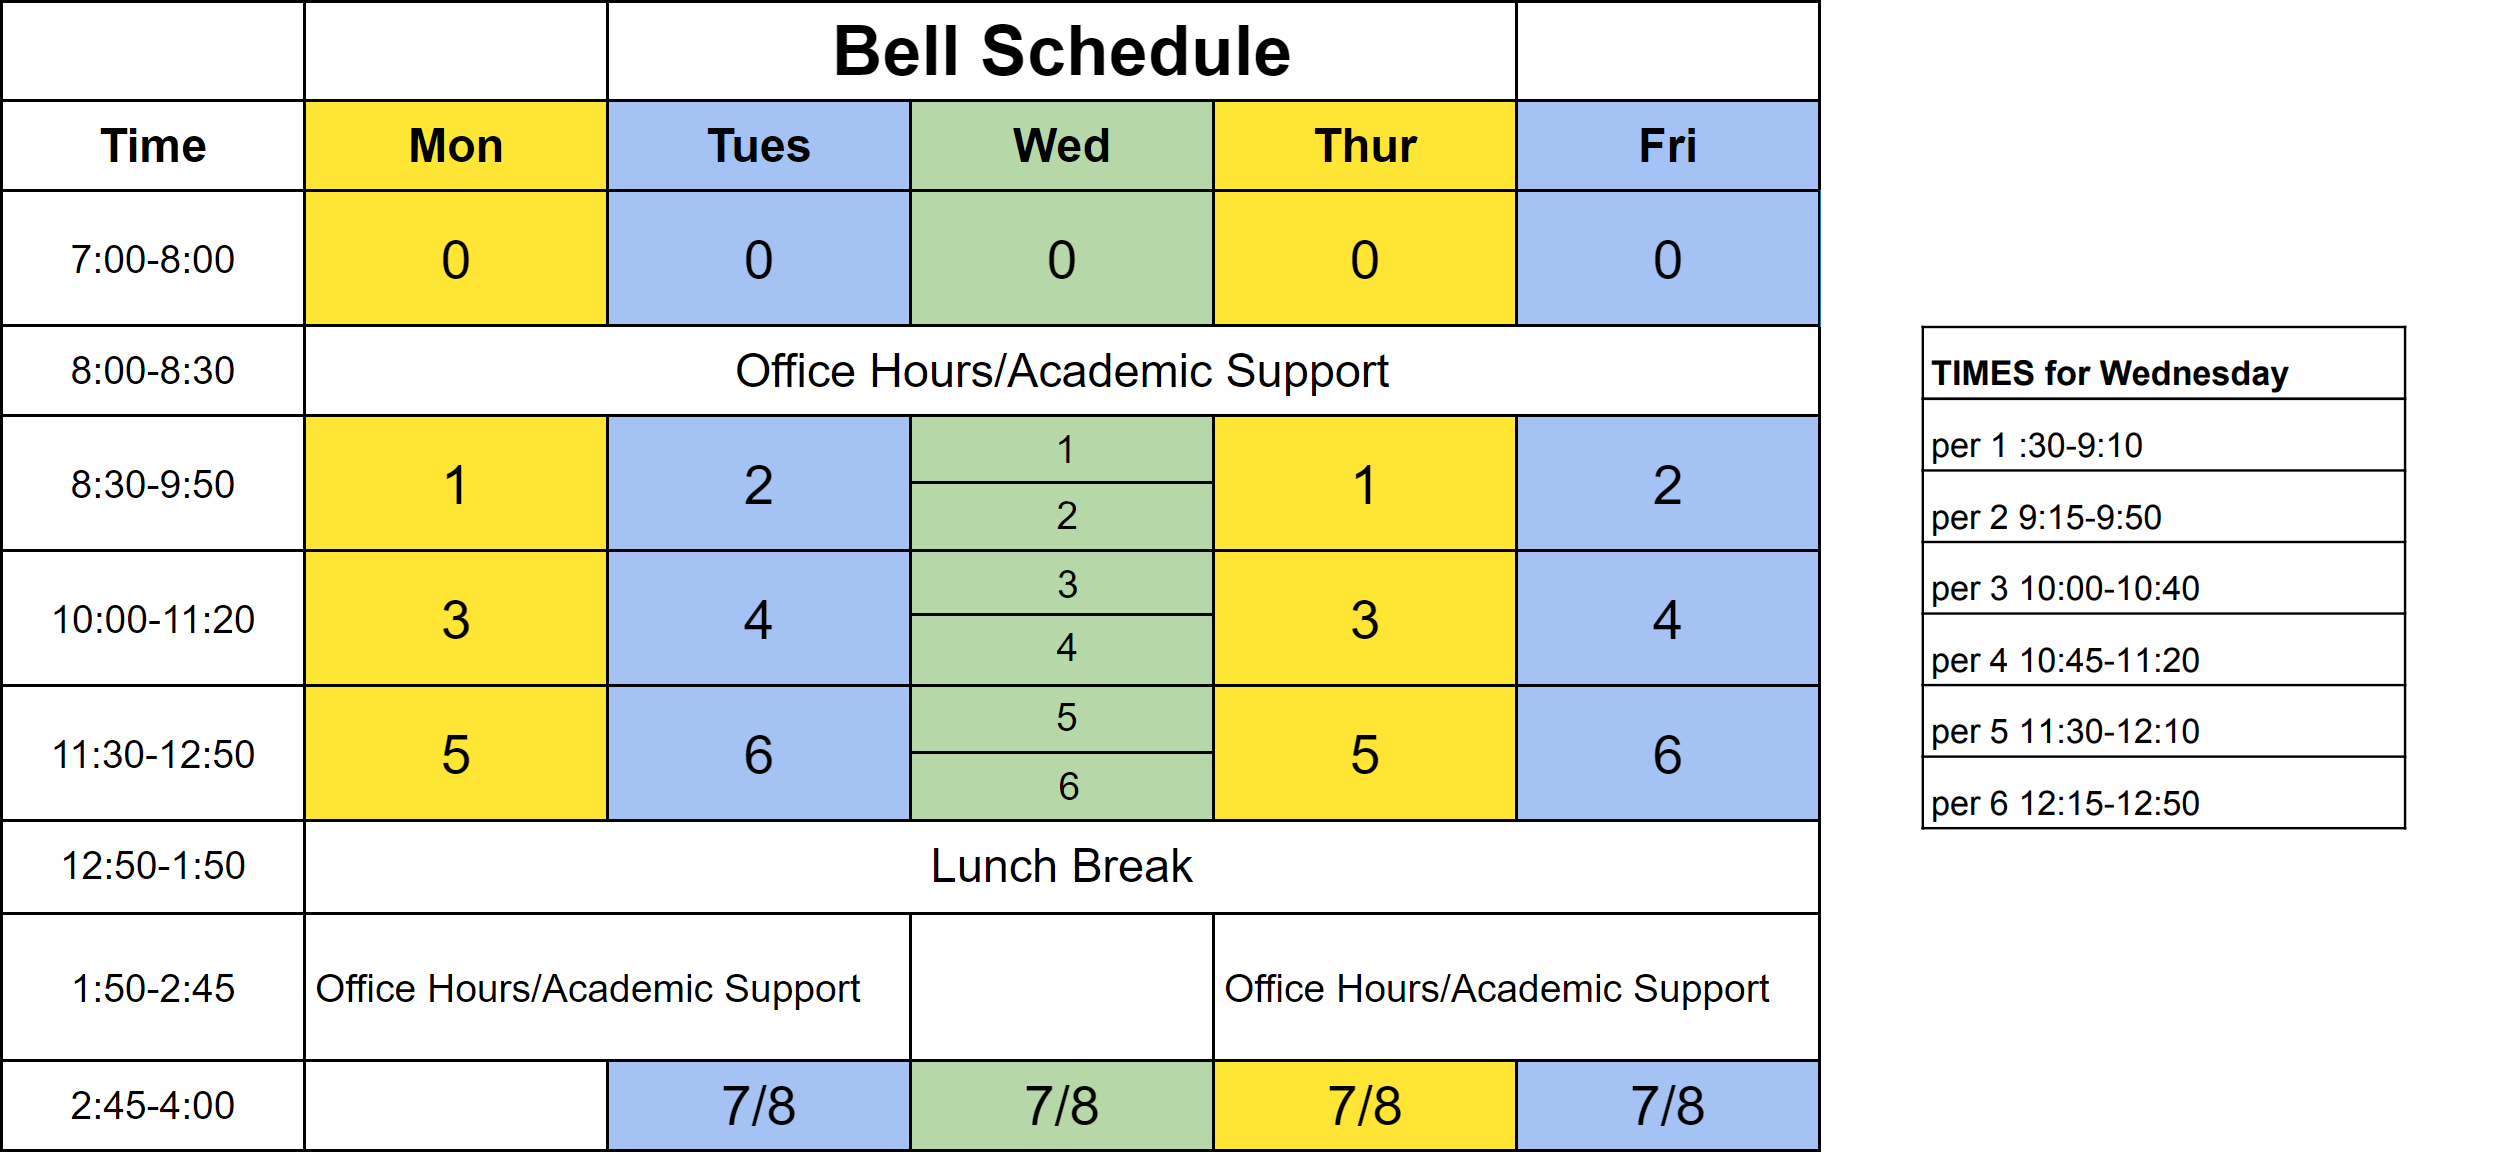
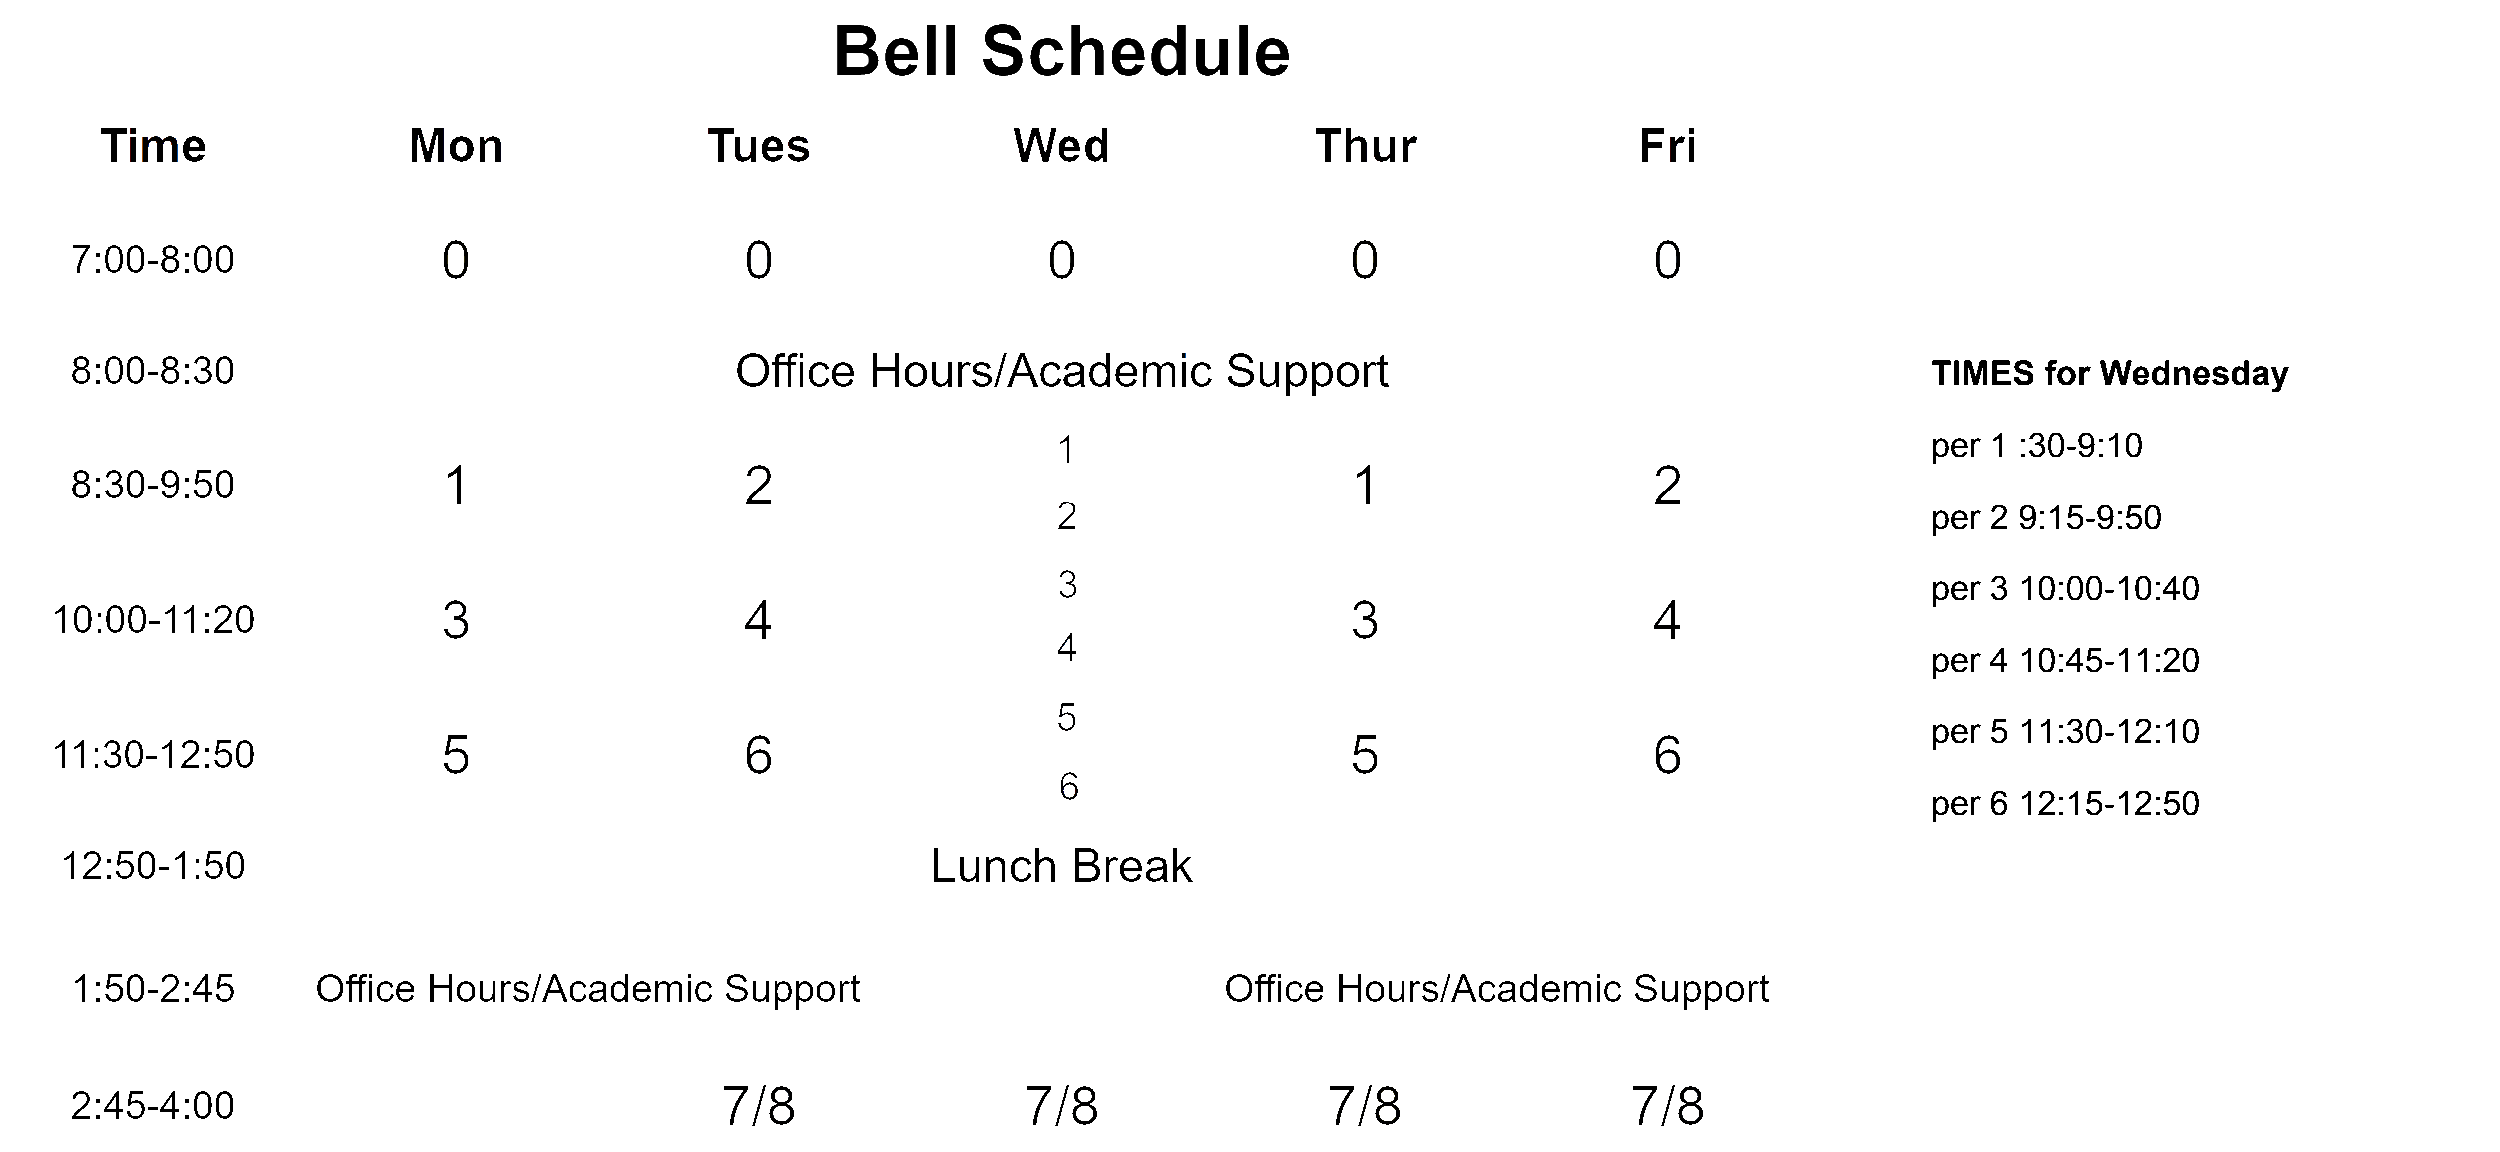
BW: Added Mon/Thur schedule, Tues/Fri schedule, Wed schedule, new backgrounds, and replaced quizlet with science class sample

diff --git a/src/pages/home.js b/src/pages/home.js
@@ -1,9 +1,7 @@
 import React from "react";
 import "../styles/home.scss";
-import Yosemite from "../media/yosemite.jpg";
 import Purple from "../media/purple.jpg";
 import Saints from "../media/saintsbg.jpg";
-import Schedule from "../media/santa-ana.png";
 import Timer from "../components/timer";
 import SA from "../media/sa logo.png";
 import Clipboard from "../media/clipboard.jpg";
@@ -11,6 +9,11 @@ import ClipboardPu from "../media/clipboard-purple.jpg";
 import ClipboardPi from "../media/clipboard-pink.jpg";
 import Play from "../media/play.png";
 import FAQ from "../media/faq.png";
+import Orange from "../media/orange.jpg";
+import MT from "../media/santa-ana mon-thur.png";
+import TF from "../media/santa-ana tues-fri.png";
+import Blue from "../media/blue.jpg";
+import W from "../media/santa-ana wed.png";
 
 class Home extends React.Component {
   render() {
@@ -18,23 +21,24 @@ class Home extends React.Component {
       <div id="home-page">
         <img className="home-background" src={Purple}/>
         <div id="white-bg"/>
+        <img className="home-background" src={Orange}/>
+        <div id="white-bg"/>
+        <img className="home-background" src={Blue}/>
+        <div id="white-bg"/>
         <img className="home-background" src={Saints}/>
-        <img className="home-background" src={Saints}/>
-        <img id="schedule" src={Schedule}/>
         <Timer/>
-        <input/>
         <a id="ortegatime" href="https://www.sausd.us/sahs"><img id="sa" src={SA}/>Santa Ana</a>
         <a id="home-button" href="/">Home</a>
         <div id="menu-button">☰</div>
-        <a href="#schedule" className="white-box" id="box1">
+        <a href="#box7" className="white-box" id="box1">
           <img id="clipboard" src={Clipboard}/>
           <div className="box-text">Mon/Thurs Schedule</div>
         </a>
-        <a href="#schedule" className="white-box" id="box2">
+        <a href="#box8" className="white-box" id="box2">
           <img id="clipboard" src={ClipboardPu}/>
           <div className="box-text">Tues/Fri Schedule</div>
         </a>
-        <a href="#schedule" className="white-box" id="box3">
+        <a href="#box9" className="white-box" id="box3">
           <img id="clipboard" src={ClipboardPi}/>
           <div className="box-text">Wed Schedule</div>
         </a>
@@ -46,7 +50,23 @@ class Home extends React.Component {
           <img id="play" src={FAQ}/>
           <div className="box-text">Frequently Asked Questions</div>
         </a>
-      </div>
+        <a className="white-box-xl" id="box6">
+          <iframe id="quiz" src="https://quizlet.com/481289434/match/embed?i=1b80tu&x=1jj1" style={{border:0}}></iframe>
+          <div className="box-text">Test your knowledge</div>
+        </a>
+        <div id="MT-title">Monday/Thursday Schedule</div>
+        <a className="white-box-tall" id="box7">
+          <img id="MT" src={MT}/>
+        </a>
+        <div id="TF-title">Tuesday/Friday Schedule</div>
+        <a className="white-box-tall" id="box8">
+          <img id="TF" src={TF}/>
+        </a>
+        <div id="W-title">Wednesday Schedule</div>
+        <a className="white-box-tall" id="box9">
+          <img id="W" src={W}/>
+        </a>
+        </div>
     );
   };
 }

diff --git a/src/styles/home.scss b/src/styles/home.scss
@@ -97,6 +97,39 @@
     transition-duration: 1s;
     cursor: pointer;
 }
+.white-box-xl {
+    position: absolute;
+    top: 87vw;
+    left: 11vw;
+    width: 78vw;
+    height: 25vw;
+    background-color: rgb(255,255,255);
+    border-radius: 1vw;
+    box-shadow: 0vw 0.5vw 0.5vw rgb(150,150,150);
+    text-decoration: none;
+}
+.white-box-xl:hover {
+    box-shadow: 0vw 0.5vw 0.5vw rgb(100,100,100);
+    transform: scale(1.01);
+    transition-duration: 1s;
+    cursor: pointer;
+}
+.white-box-tall {
+    position: absolute;
+    left: 11vw;
+    width: 36vw;
+    height: 42vw;
+    background-color: rgb(255,255,255);
+    border-radius: 1vw;
+    box-shadow: 0vw 0.5vw 0.5vw rgb(150,150,150);
+    text-decoration: none;
+}
+.white-box-tall:hover {
+    box-shadow: 0vw 0.5vw 0.5vw rgb(100,100,100);
+    transform: scale(1.01);
+    transition-duration: 1s;
+    cursor: pointer;
+}
 #box1 {
     left: 10.5vw;
 }
@@ -111,6 +144,16 @@
 }
 #box5 {
     left: 51vw;
+}
+#box7 {
+    top: 118vw;
+}
+#box8 {
+    top: 175vw;
+    left: 50vw;
+}
+#box9 {
+    top: 232vw;
 }
 #clipboard {
     width: 10vw;
@@ -131,4 +174,66 @@
     margin-left: 14.25vw;
     margin-top: 1vw;
     border-radius: 1vw;
+}
+#quiz {
+    width: 80%;
+    height: 75%;
+    margin-left: 10%;
+    margin-top: 3%;
+}
+#MT {
+    margin-top: 2vw;
+    margin-left: 2vw;
+    width: 80%;
+    //background-color: rgb(255, 166, 121);
+    border-radius: 2vw;
+    padding: 1vw;
+}
+#MT-title {
+    position: absolute;
+    top: 136vw;
+    left: 50vw;
+    font-size: 4vw;
+    font-weight: 500;
+    color: white;
+    font-family: 'Work Sans', sans-serif;
+    width: 45vw;
+}
+#TF {
+    margin-top: 2vw;
+    margin-left: 2vw;
+    width: 80%;
+    //background-color: rgb(255, 166, 121);
+    border-radius: 2vw;
+    padding: 1vw;
+    left: 50vw;
+}
+#TF-title {
+    position: absolute;
+    top: 190vw;
+    left: 12vw;
+    font-size: 4vw;
+    font-weight: 500;
+    color: black;
+    font-family: 'Work Sans', sans-serif;
+    width: 45vw;
+    text-shadow: 0vw 0.5vw 0.5vw rgb(150,150,150);
+}
+#W {
+    margin-top: 2vw;
+    margin-left: 2vw;
+    width: 80%;
+    //background-color: rgb(255, 166, 121);
+    border-radius: 2vw;
+    padding: 1vw;
+}
+#W-title {
+    position: absolute;
+    top: 250vw;
+    left: 50vw;
+    font-size: 4vw;
+    font-weight: 500;
+    color: white;
+    font-family: 'Work Sans', sans-serif;
+    width: 45vw;
 }
